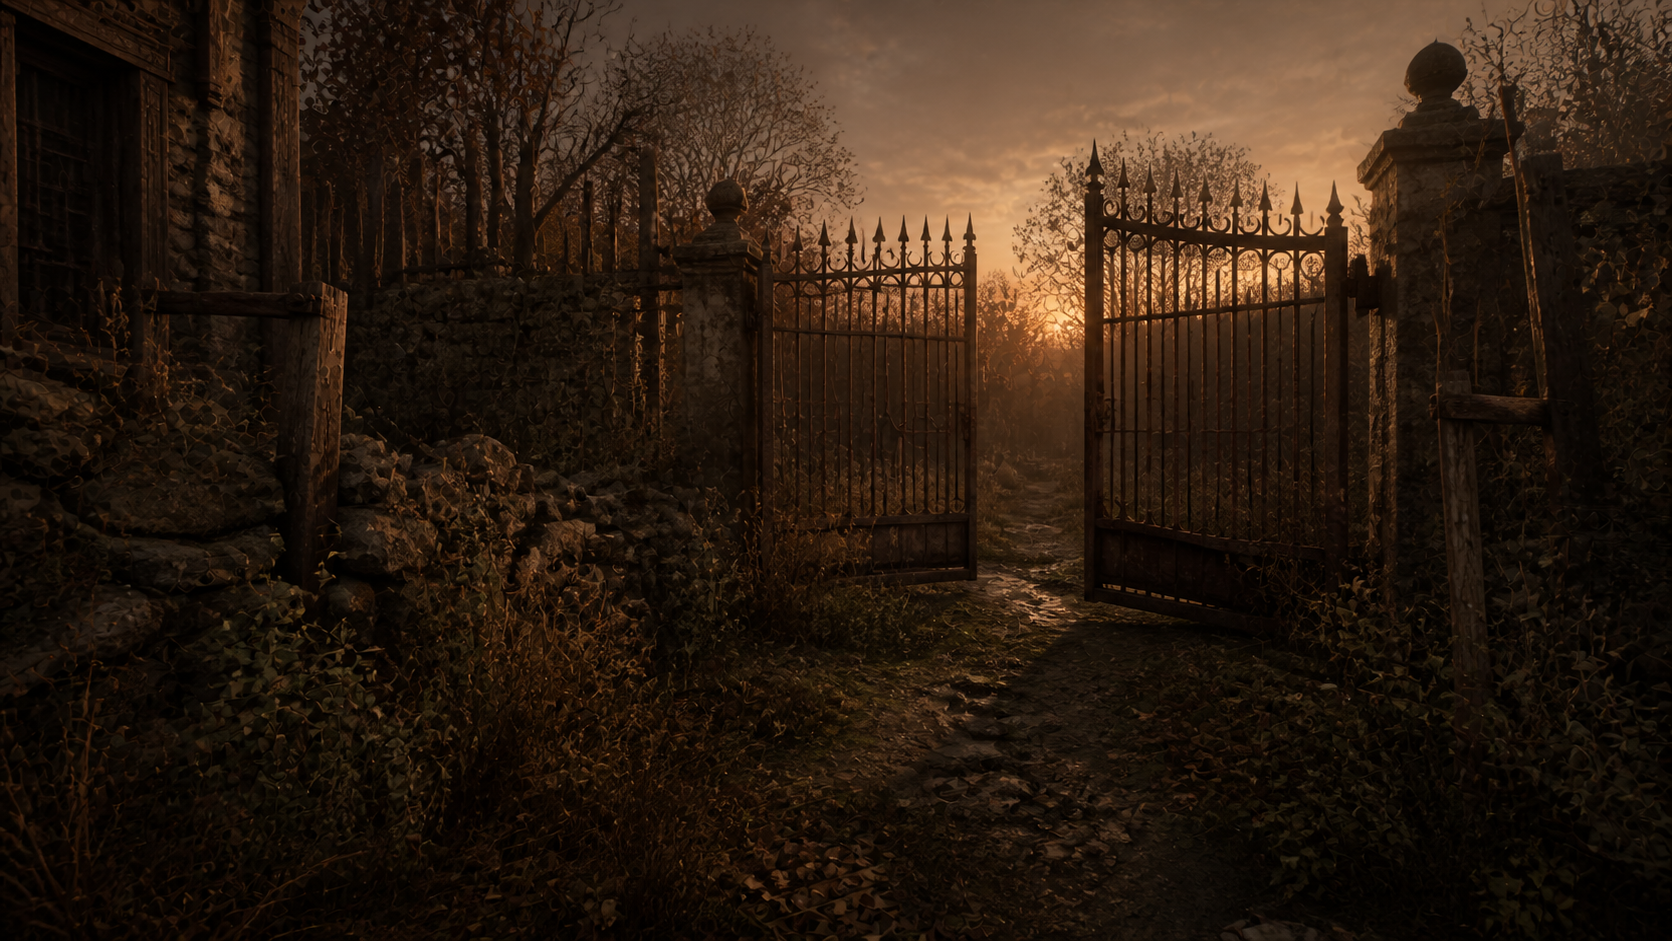
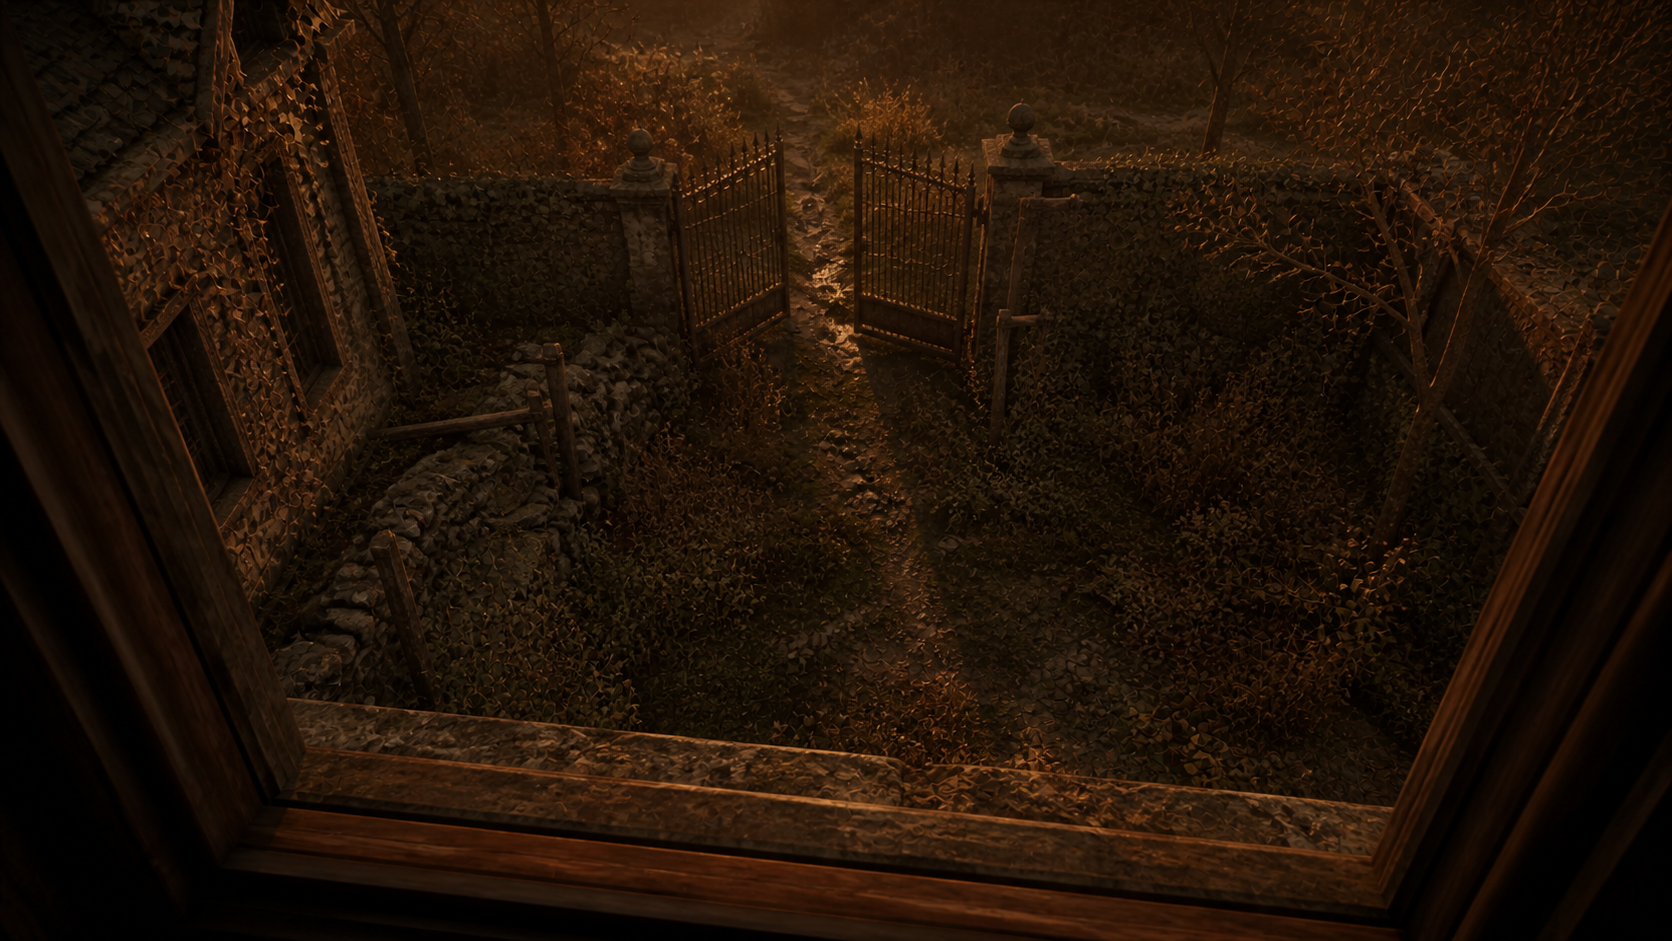
Show manor yard from upstairs window

diff --git a/docs/index.html b/docs/index.html
@@ -30,7 +30,7 @@
     function closeInspect(){inspect.classList.remove('open');inspect.setAttribute('aria-hidden','true')}
     document.querySelector('#close').addEventListener('click',closeInspect);
     addEventListener('keydown',e=>{if(e.key==='Escape')closeInspect()});
-    class RoomScene extends Phaser.Scene{preload(){this.load.image('bedroom','assets/village-chief-bedroom.png');this.load.image('ladder','assets/village-chief-ladder.png?v=clean-wall');this.load.image('window','assets/village-chief-window.png?v=sunset');this.load.image('yard','assets/village-chief-yard.png')}create(){const views=[this.add.image(640,360,'window').setDisplaySize(1280,720).setAlpha(0),this.add.image(640,360,'ladder').setDisplaySize(1280,720).setAlpha(0),this.add.image(640,360,'bedroom').setDisplaySize(1280,720),this.add.image(640,360,'yard').setDisplaySize(1280,720).setAlpha(0)];let current=2;const style={fontFamily:'Georgia',fontSize:'72px',color:'#ddd3bd',backgroundColor:'rgba(5,6,7,.42)',padding:{left:18,right:18,top:2,bottom:8}};const left=this.add.text(34,310,'‹',style).setDepth(5).setInteractive({useHandCursor:true}),right=this.add.text(1178,310,'›',style).setDepth(5),down=this.add.text(601,606,'⌄',style).setDepth(5),hotspot=this.add.rectangle(555,215,320,400,0xd7b66d,0).setDepth(4);const controls=()=>{[left,right,down].forEach(b=>b.setAlpha(0).disableInteractive());hotspot.disableInteractive().setFillStyle(0xd7b66d,0).setStrokeStyle(0);if(current===2){left.setAlpha(1).setInteractive({useHandCursor:true});down.setAlpha(1).setInteractive({useHandCursor:true})}else if(current===1){right.setAlpha(1).setInteractive({useHandCursor:true})}else if(current===0){down.setAlpha(1).setInteractive({useHandCursor:true});hotspot.setInteractive({useHandCursor:true})}else{down.setAlpha(1).setInteractive({useHandCursor:true})}};const turn=next=>{if(next===current)return;const previous=views[current],incoming=views[next].setAlpha(0);current=next;controls();this.tweens.add({targets:previous,alpha:0,duration:330,ease:'Sine.easeInOut'});this.tweens.add({targets:incoming,alpha:1,duration:330,ease:'Sine.easeInOut'})};left.on('pointerdown',()=>current===2&&turn(1));right.on('pointerdown',()=>current===1&&turn(2));down.on('pointerdown',()=>current===2?turn(0):current===0?turn(2):current===3&&turn(0));hotspot.on('pointerover',()=>current===0&&hotspot.setFillStyle(0xd7b66d,.045).setStrokeStyle(2,0xd7b66d,.55));hotspot.on('pointerout',()=>hotspot.setFillStyle(0xd7b66d,0).setStrokeStyle(0));hotspot.on('pointerdown',()=>current===0&&turn(3));this.input.keyboard.on('keydown-LEFT',()=>current===2&&turn(1));this.input.keyboard.on('keydown-RIGHT',()=>current===1&&turn(2));this.input.keyboard.on('keydown-DOWN',()=>current===2?turn(0):current===0?turn(2):current===3&&turn(0));this.input.keyboard.on('keydown-ENTER',()=>current===0&&turn(3));this.input.keyboard.on('keydown-ESC',()=>current===3&&turn(0));controls()}}
+    class RoomScene extends Phaser.Scene{preload(){this.load.image('bedroom','assets/village-chief-bedroom.png');this.load.image('ladder','assets/village-chief-ladder.png?v=clean-wall');this.load.image('window','assets/village-chief-window.png?v=sunset');this.load.image('yard','assets/village-chief-yard.png?v=upstairs')}create(){const views=[this.add.image(640,360,'window').setDisplaySize(1280,720).setAlpha(0),this.add.image(640,360,'ladder').setDisplaySize(1280,720).setAlpha(0),this.add.image(640,360,'bedroom').setDisplaySize(1280,720),this.add.image(640,360,'yard').setDisplaySize(1280,720).setAlpha(0)];let current=2;const style={fontFamily:'Georgia',fontSize:'72px',color:'#ddd3bd',backgroundColor:'rgba(5,6,7,.42)',padding:{left:18,right:18,top:2,bottom:8}};const left=this.add.text(34,310,'‹',style).setDepth(5).setInteractive({useHandCursor:true}),right=this.add.text(1178,310,'›',style).setDepth(5),down=this.add.text(601,606,'⌄',style).setDepth(5),hotspot=this.add.rectangle(555,215,320,400,0xd7b66d,0).setDepth(4);const controls=()=>{[left,right,down].forEach(b=>b.setAlpha(0).disableInteractive());hotspot.disableInteractive().setFillStyle(0xd7b66d,0).setStrokeStyle(0);if(current===2){left.setAlpha(1).setInteractive({useHandCursor:true});down.setAlpha(1).setInteractive({useHandCursor:true})}else if(current===1){right.setAlpha(1).setInteractive({useHandCursor:true})}else if(current===0){down.setAlpha(1).setInteractive({useHandCursor:true});hotspot.setInteractive({useHandCursor:true})}else{down.setAlpha(1).setInteractive({useHandCursor:true})}};const turn=next=>{if(next===current)return;const previous=views[current],incoming=views[next].setAlpha(0);current=next;controls();this.tweens.add({targets:previous,alpha:0,duration:330,ease:'Sine.easeInOut'});this.tweens.add({targets:incoming,alpha:1,duration:330,ease:'Sine.easeInOut'})};left.on('pointerdown',()=>current===2&&turn(1));right.on('pointerdown',()=>current===1&&turn(2));down.on('pointerdown',()=>current===2?turn(0):current===0?turn(2):current===3&&turn(0));hotspot.on('pointerover',()=>current===0&&hotspot.setFillStyle(0xd7b66d,.045).setStrokeStyle(2,0xd7b66d,.55));hotspot.on('pointerout',()=>hotspot.setFillStyle(0xd7b66d,0).setStrokeStyle(0));hotspot.on('pointerdown',()=>current===0&&turn(3));this.input.keyboard.on('keydown-LEFT',()=>current===2&&turn(1));this.input.keyboard.on('keydown-RIGHT',()=>current===1&&turn(2));this.input.keyboard.on('keydown-DOWN',()=>current===2?turn(0):current===0?turn(2):current===3&&turn(0));this.input.keyboard.on('keydown-ENTER',()=>current===0&&turn(3));this.input.keyboard.on('keydown-ESC',()=>current===3&&turn(0));controls()}}
     new Phaser.Game({type:Phaser.AUTO,parent:'game',width:1280,height:720,backgroundColor:'#090a0c',scene:RoomScene,scale:{mode:Phaser.Scale.FIT,autoCenter:Phaser.Scale.CENTER_BOTH}});
   </script>
 </body>

diff --git a/app/page.tsx b/app/page.tsx
@@ -38,7 +38,7 @@ export default function Home() {
           this.load.image("village-chief-bedroom", "/rooms/village-chief-bedroom.png");
           this.load.image("village-chief-ladder", "/rooms/village-chief-ladder.png?v=clean-wall");
           this.load.image("village-chief-window", "/rooms/village-chief-window.png?v=sunset");
-          this.load.image("village-chief-yard", "/rooms/village-chief-yard.png");
+          this.load.image("village-chief-yard", "/rooms/village-chief-yard.png?v=upstairs");
         }
         create() {
           const views = [

diff --git a/ASSET_SOURCES.md b/ASSET_SOURCES.md
@@ -10,6 +10,6 @@ The adjacent attic-ladder and window views are AI-generated continuity plates ba
 
 https://www.gamerevolution.com/guides/937536-resident-evil-4-remake-collapsible-ladder-village-chiefs-manor
 
-The exterior yard is an AI-generated continuity scene informed by the documented Village Chief's Manor Yard connections and layout:
+The exterior yard is an AI-generated continuity scene shown from the second-floor bedroom window, informed by the documented Village Chief's Manor Yard connections and layout:
 
 https://www.evilresource.com/resident-evil-4-remake/maps/village/village-chiefs-manor-abandoned-factory-valley/village-chiefs-manor-yard
